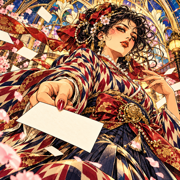
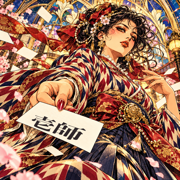
feat(meishi): アイコンの名刺に「壱師」の文字を入れる

Changed region(s): [[0.1667, 0.6389, 0.4722, 0.7778]]

diff --git a/apps/meishi/sw.js b/apps/meishi/sw.js
@@ -1,5 +1,5 @@
 /* 名刺アプリを通信できないときも開けるよう、必要なファイルを端末に控える。 */
-var CACHE = "meishi-v3";
+var CACHE = "meishi-v4";
 var ASSETS = [
   "./", "./index.html", "./manifest.webmanifest", "./icon-180.png", "./icon-192.png", "./icon-512.png",
   "../shared/contacts.js", "../shared/camerapref.js", "../shared/scanrouter.js", "../shared/receiptscan.js", "../shared/documentreader.js",
